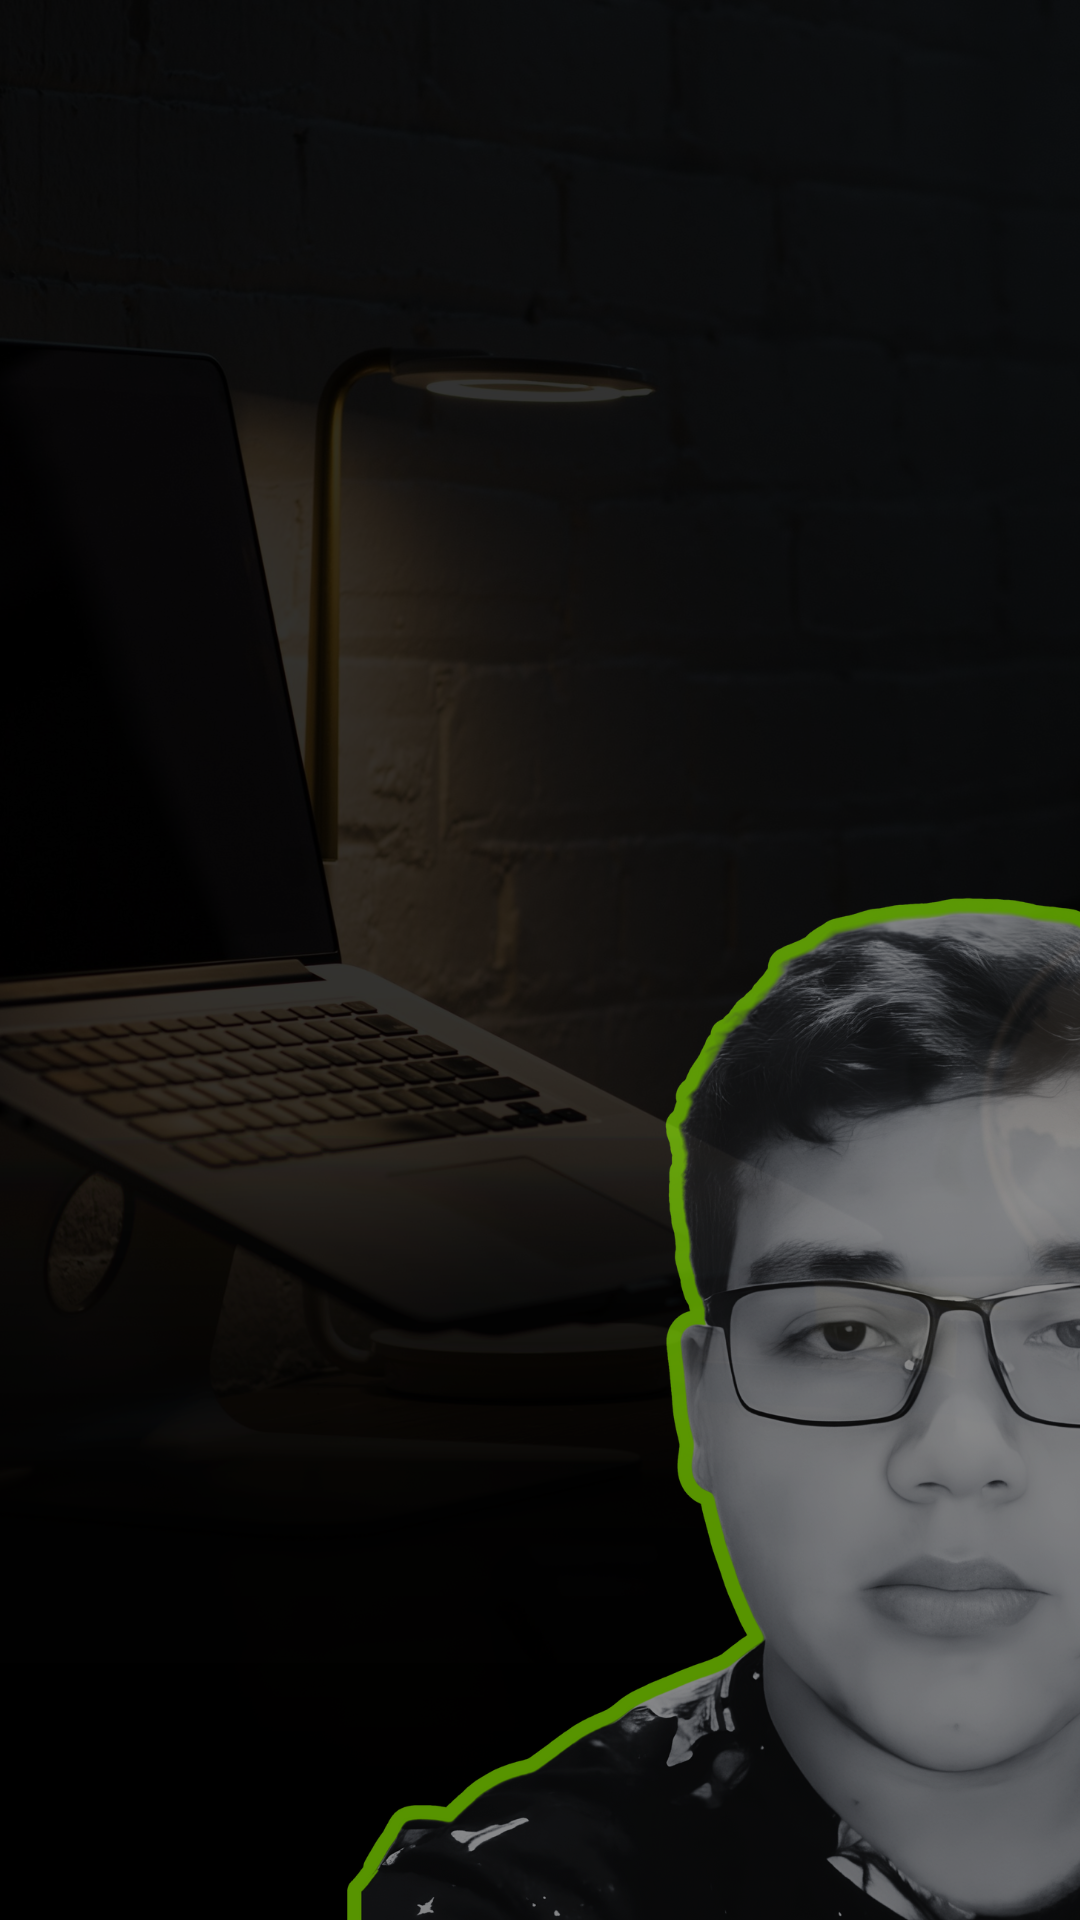
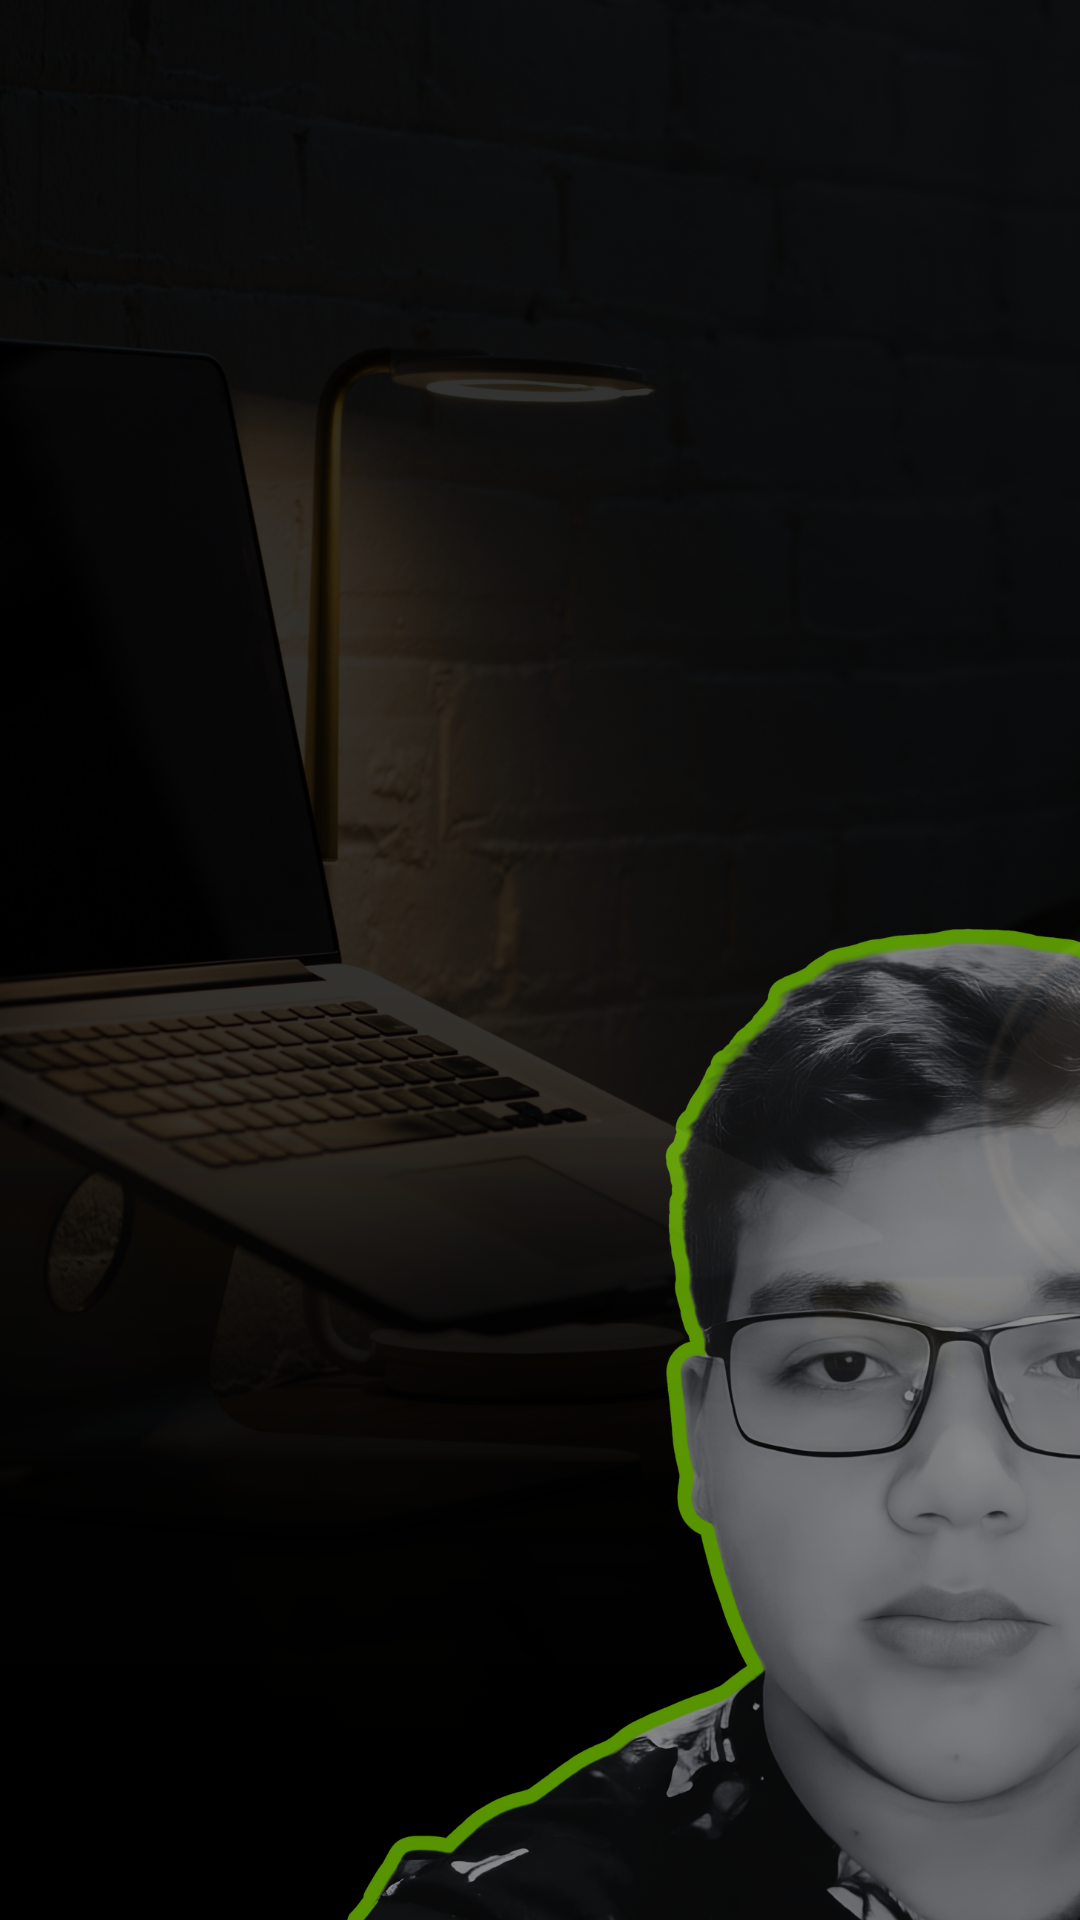
layout adjustments

Changed region(s): [[0.3056, 0.4688, 1.0, 1.0], [0.7944, 0.8125, 0.9778, 0.875]]

diff --git a/src/app/modules/portifolio/pages/presentation/presentation.component.scss b/src/app/modules/portifolio/pages/presentation/presentation.component.scss
@@ -76,7 +76,7 @@
 @media (max-width: 500px){
   .container-main {
     background: linear-gradient(to bottom, rgb(0, 0, 0), rgba(0, 0, 0, 0.47)),
-    url("/assets/banner-presentation-responsive.png") no-repeat center center fixed;
+    url("/assets/banner-presentation-responsive.png") no-repeat;
     background-size: cover;
     height: 120vh;
 
